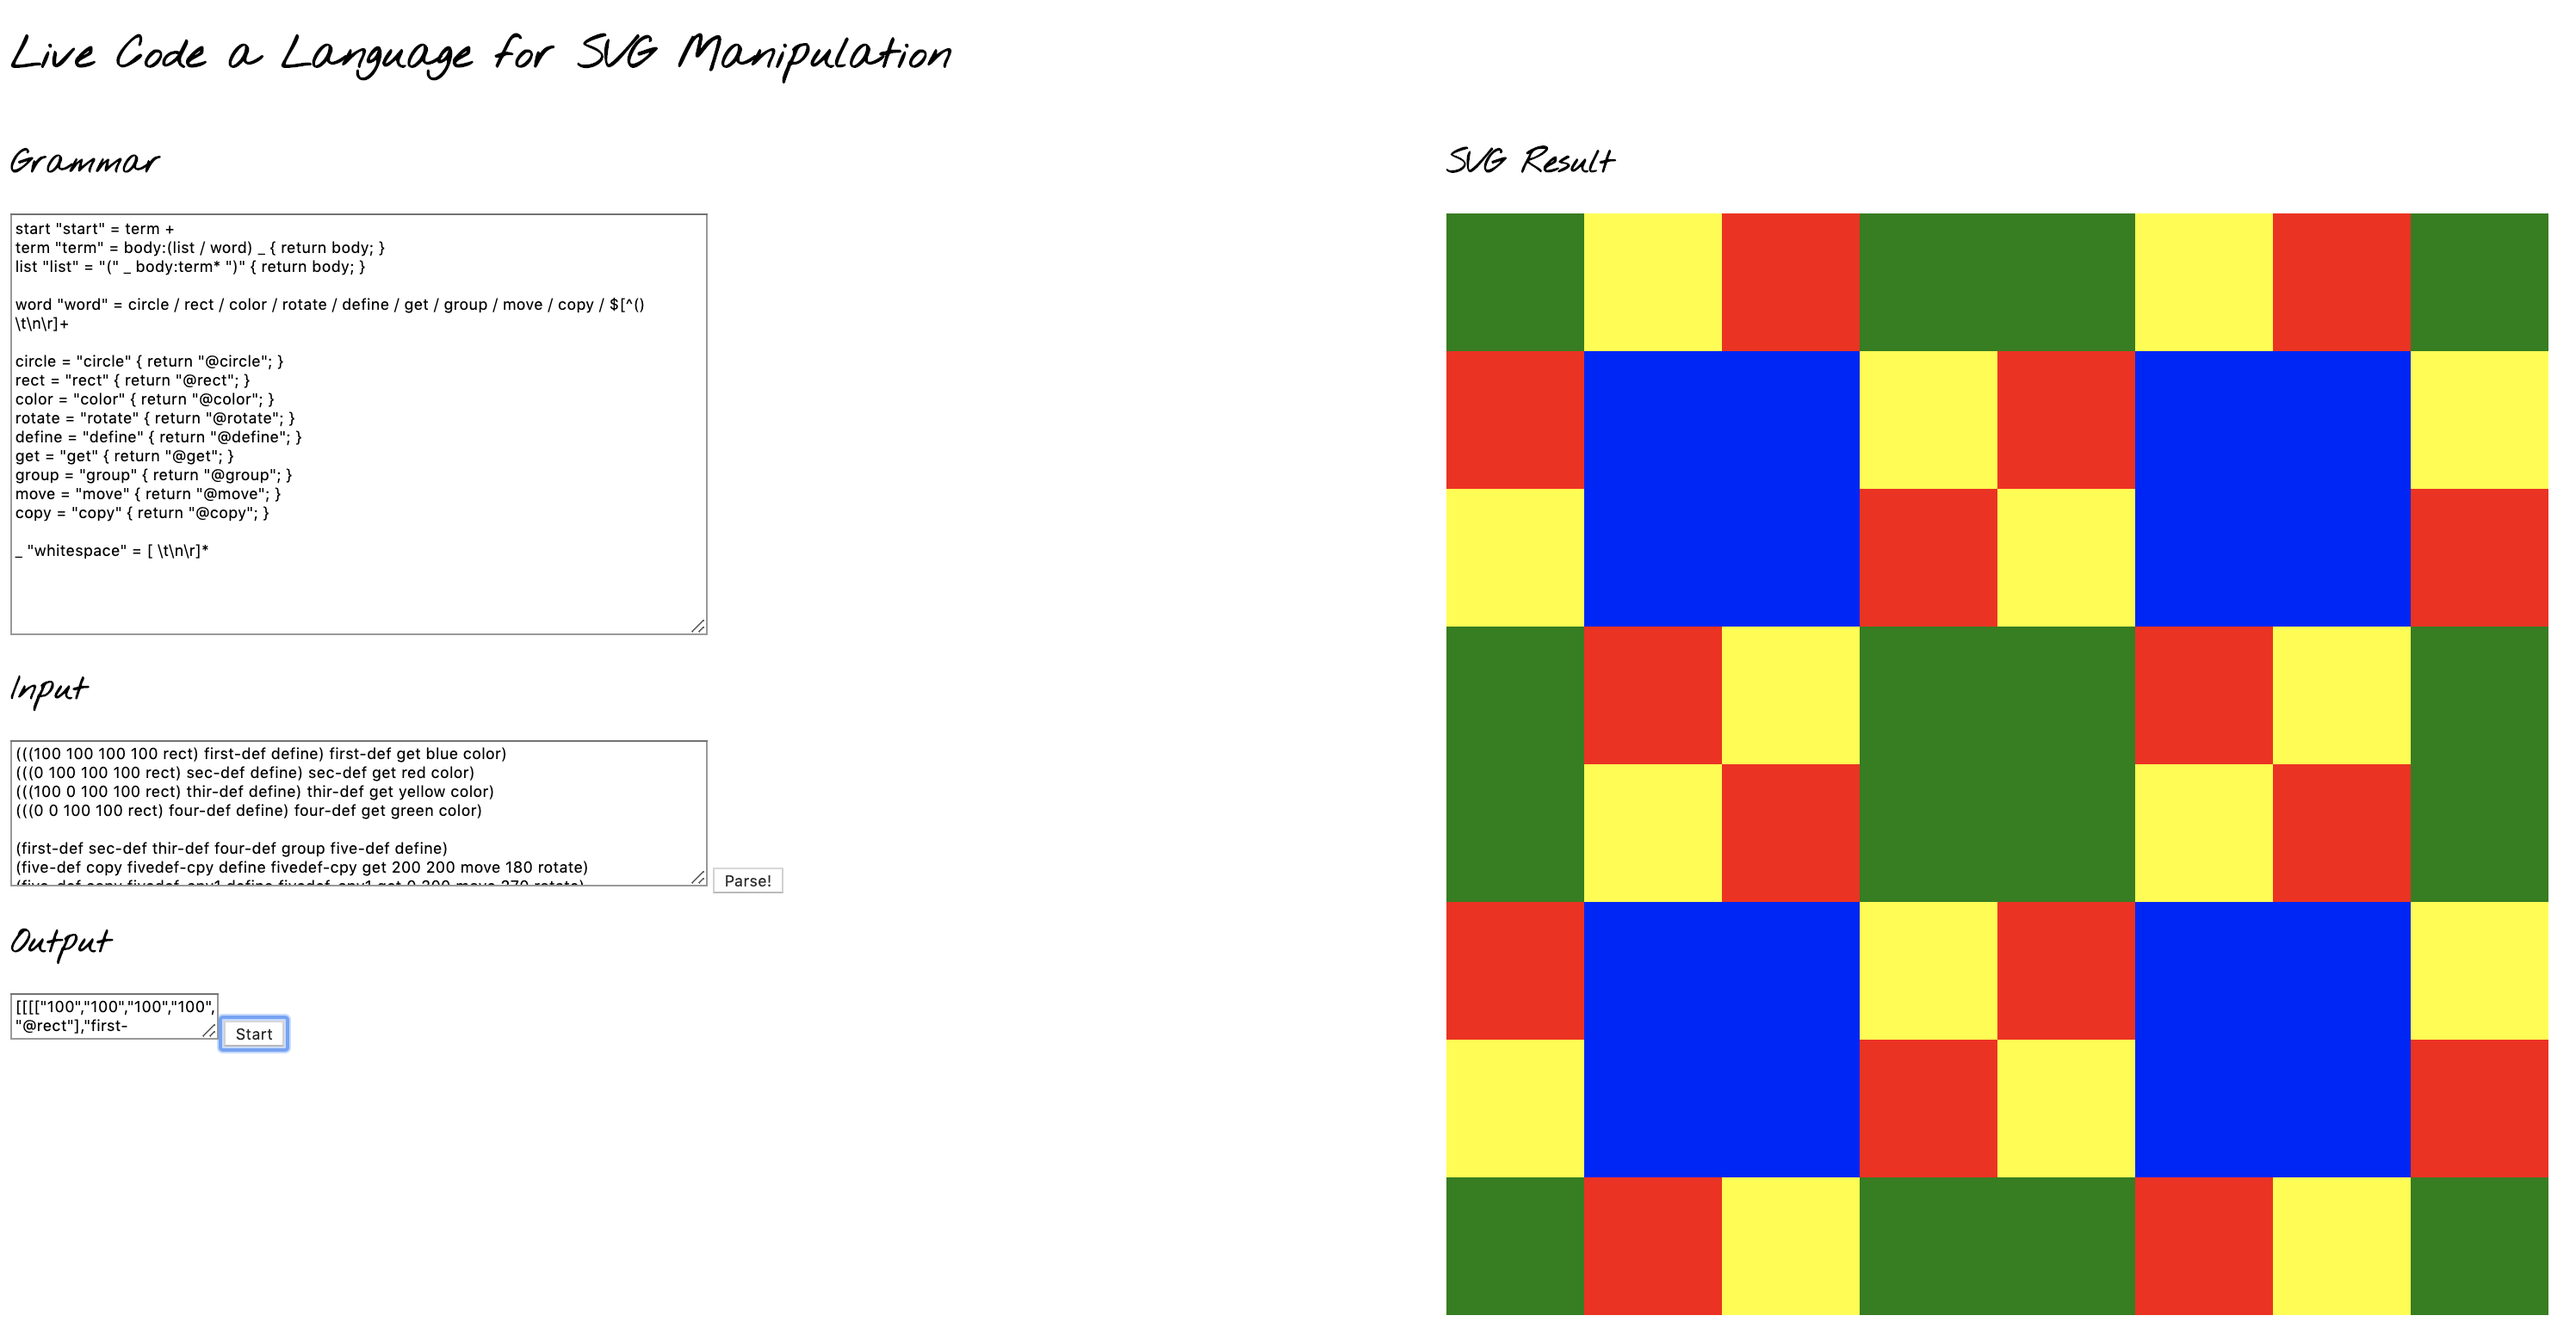
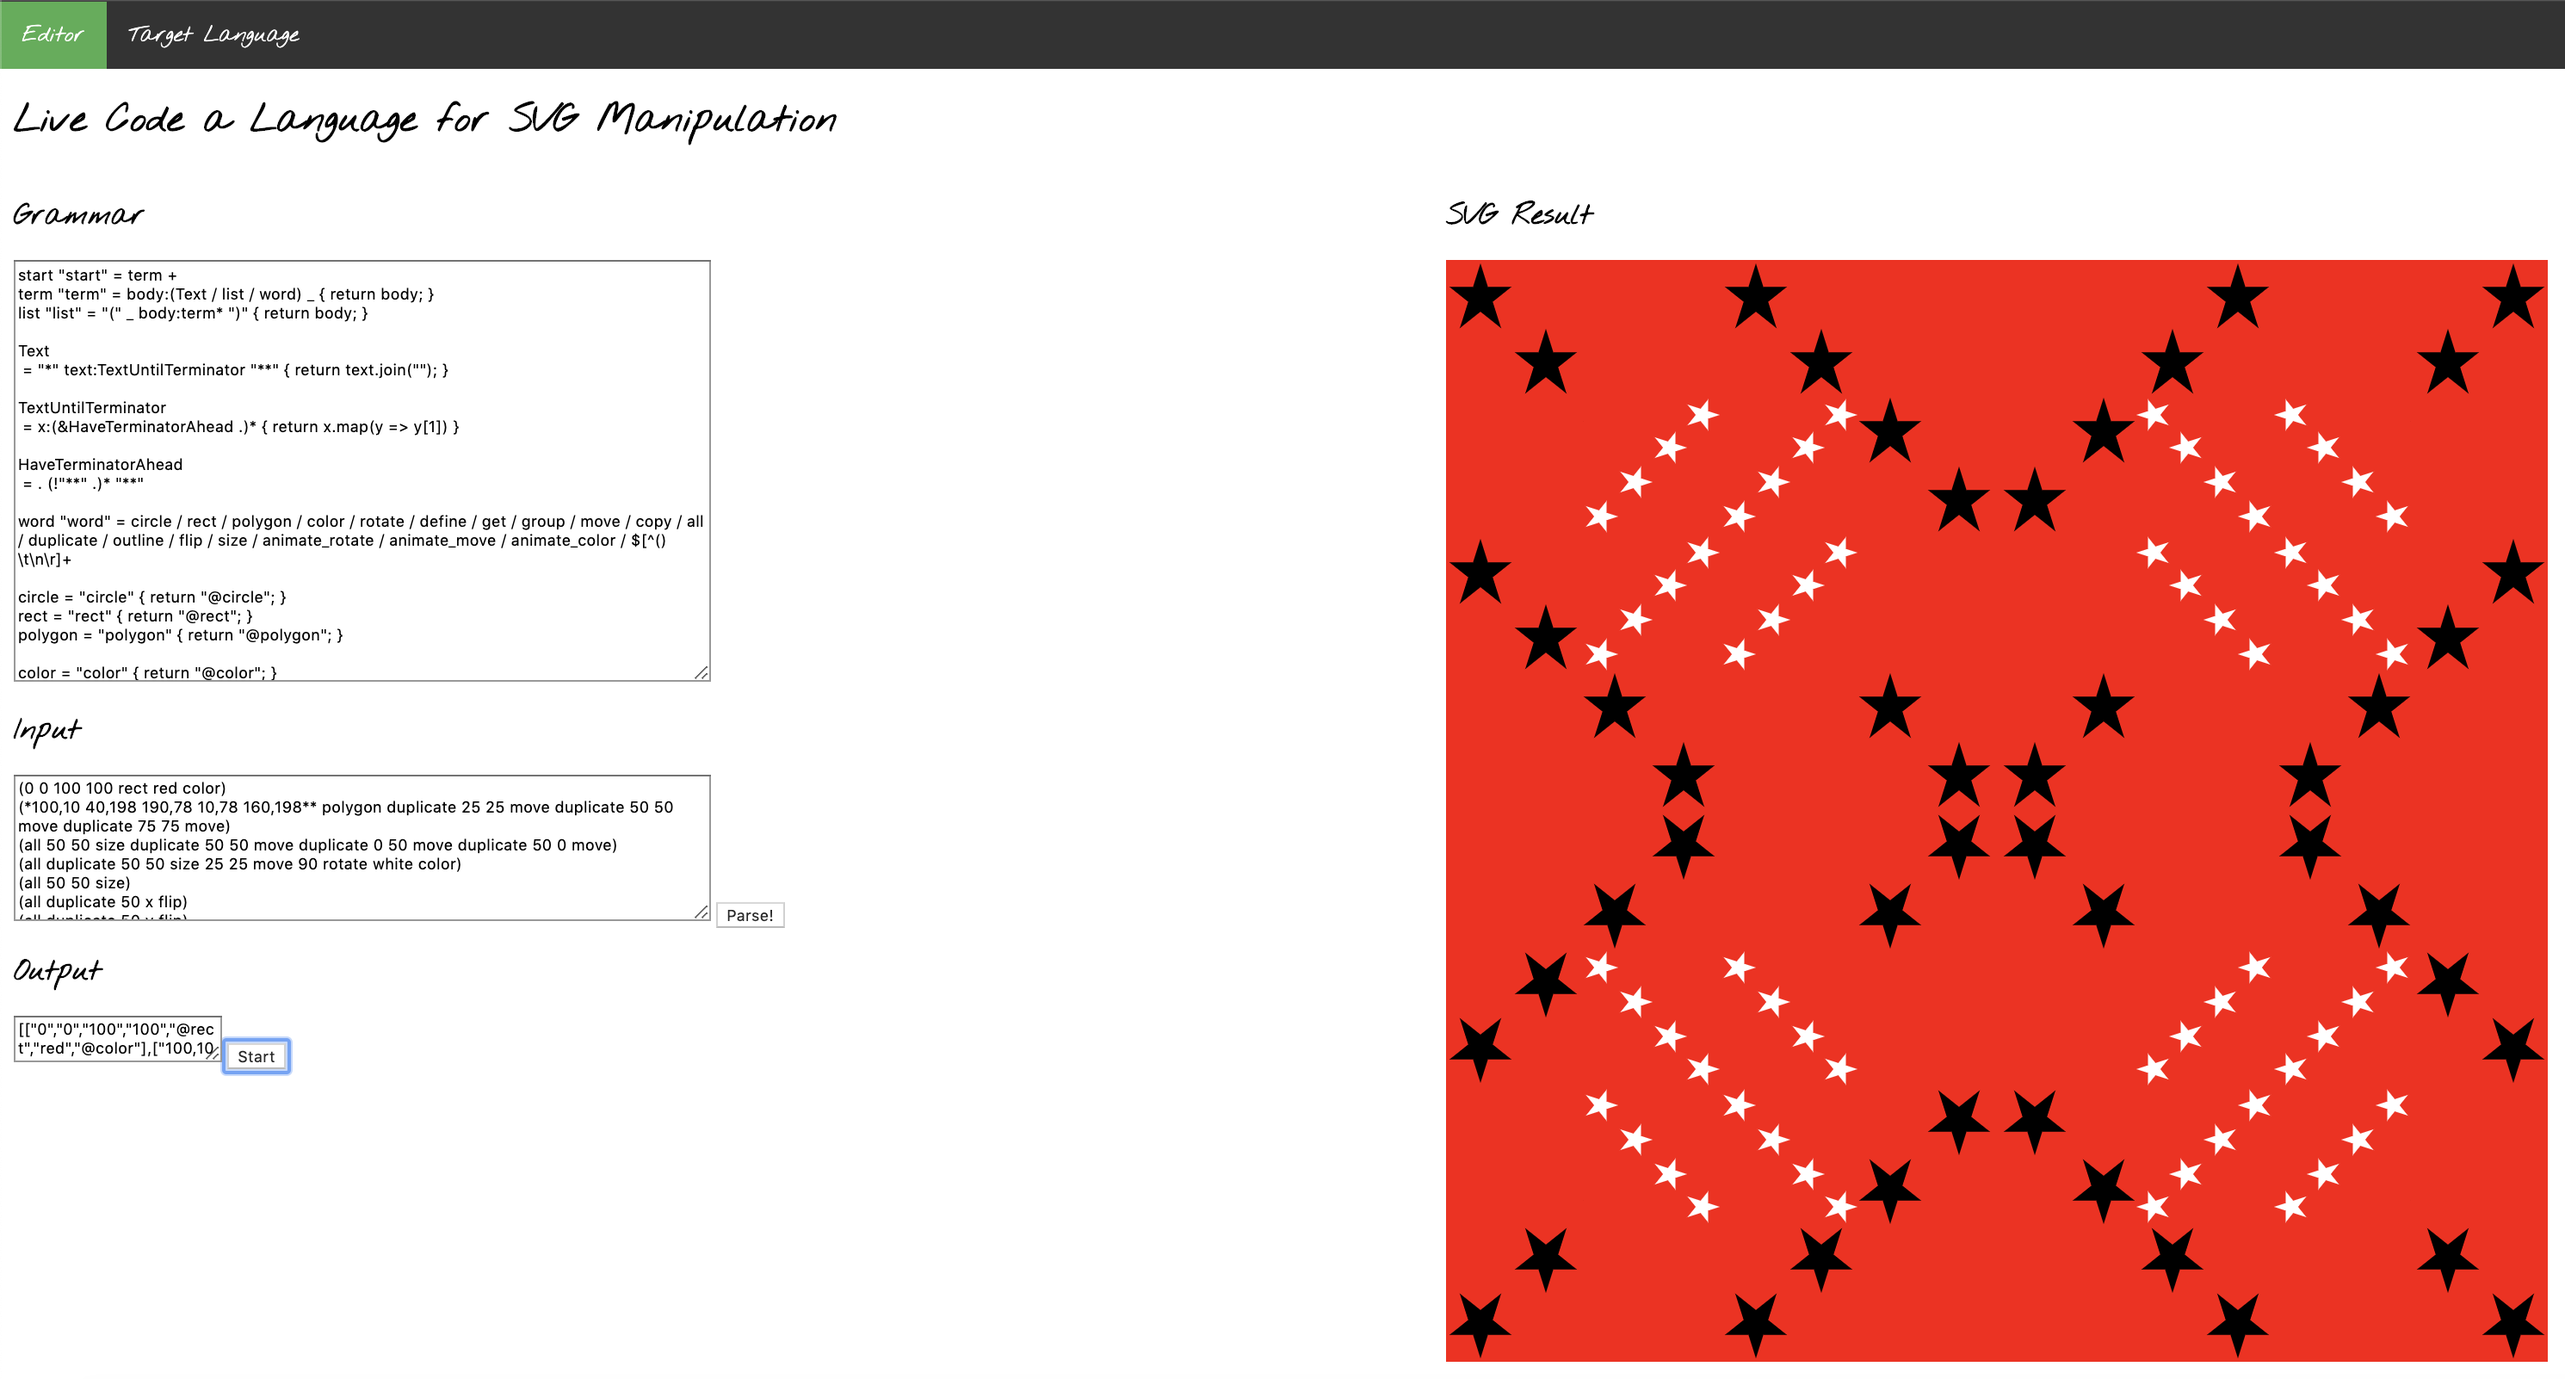
More commands!

diff --git a/svg/svgdotjs.html b/svg/svgdotjs.html
@@ -13,7 +13,9 @@
 <script>
     /* create an svg drawing */
     var draw = SVG().addTo('#drawing').size(800, 800);
+    //draw = drawing.group();
 
+    //var draw = drawing.group();
     /* draw rectangle */
     var recta = draw.rect(100, 100).move(100, 100).fill('red');
     var rectb = draw.rect(100, 100).move(0, 0).fill('green');
@@ -55,6 +57,43 @@
     bigclone.translate(400, 400);
     bigclone.rotate(180);
     draw.add(bigclone);
+
+    //draw.scale(0.5);
+
+    //draw.nested()
+    let new_draw = draw.group();
+    //
+    // var clonemy = draw.clone();
+    // clonemy.move(20, 20);
+    // drawing.add(clonemy)
+    //draw.translate(-10, -10)
+
+    // let new_draw = draw.group();
+    //
+    draw.each(function(i, children) {
+        if (this !== new_draw){
+            this.putIn(new_draw)
+        }
+    })
+
+    new_draw.size(100, 100);
+    new_draw.rotate(100)
+
+    // for (let c of draw.children()){
+    //     new_draw.add(c);
+    // }
+    // //new_draw.add(draw.children);
+    //
+    // draw.clear();
+    // draw.add(new_draw)
+    // draw.rect(100, 100).fill('yellow');
+
+    //let drawcopy = draw.clone();
+    //let drawcopy = draw.ungroup(null, 3)
+
+    //drawcopy.rotate(100);
+    //drawcopy.scale(0.5);
+    //draw.add(drawcopy);
 
 
     //rect.flip('x', {x: 20, y: 30})

diff --git a/docs/index.html b/docs/index.html
@@ -37,7 +37,7 @@ TextUntilTerminator
 HaveTerminatorAhead
  = . (!"**" .)* "**"
 
-word "word" = circle / rect / polygon / color / rotate / define / get / group / move / copy / duplicate / outline / flip / size / animate_rotate / animate_move / animate_color / $[^() \t\n\r]+
+word "word" = circle / rect / polygon / color / rotate / define / get / group / move / copy / all / duplicate / outline / flip / size / animate_rotate / animate_move / animate_color / $[^() \t\n\r]+
 
 circle = "circle" { return "@circle"; }
 rect = "rect" { return "@rect"; }
@@ -50,6 +50,7 @@ rotate = "rotate" { return "@rotate"; }
 move = "move" { return "@move"; }
 size = "size" { return "@size"; }
 
+all = "all" { return "@all"; }
 group = "group" { return "@group"; }
 copy = "copy" { return "@copy"; }
 duplicate = "duplicate" { return "@duplicate"; }

diff --git a/docs/vm.js b/docs/vm.js
@@ -298,6 +298,17 @@ Q.prototype.step = function () {
                     this.vars.push(clone);
                     break;
 
+                case "@all":
+                    let new_draw = draw.group();
+                    draw.each(function(i, children) {
+                        if (this !== new_draw){
+                            this.putIn(new_draw)
+                        }
+                    });
+
+                    this.vars.push(new_draw);
+                    break;
+
                 case "@duplicate":
                     let to_clone = this.vars.pop();
 

diff --git a/docs/style.css b/docs/style.css
@@ -1,11 +1,11 @@
 body{
     margin: 0;
     font-family: 'Raleway', sans-serif;
-    font-size: 14px;
 }
 
 .container{
     margin: 10px;
+    font-size: 14px;
 }
 
 ul {

diff --git a/docs/target_lang.md b/docs/target_lang.md
@@ -10,11 +10,6 @@
 
 ### @polygon
 
-Default Editor Grammar Example
-```
-(*0,0 100,50 50,100** polygon)
-```
-
 ## Transformations
 
 ### @color
@@ -44,14 +39,6 @@ Default Editor Grammar Example
 
 ### @duplicate
 
-Default Editor Grammar Example
-```
-(*0,0 100,50 50,100** polygon 
-duplicate 10 10 move 
-duplicate 20 20 move 
-duplicate 30 30 move)
-```
-
 ### @define
 
 ### @get
@@ -60,3 +47,26 @@ duplicate 30 30 move)
 
 
 
+
+### Grammar Input Examples
+
+```
+(*0,0 100,50 50,100** polygon)
+```
+
+```
+(*0,0 100,50 50,100** polygon 
+duplicate 10 10 move 
+duplicate 20 20 move 
+duplicate 30 30 move)
+```
+
+```
+(0 0 100 100 rect red color) 
+(*100,10 40,198 190,78 10,78 160,198** polygon duplicate 25 25 move duplicate 50 50 move duplicate 75 75 move)
+(all 50 50 size duplicate 50 50 move duplicate 0 50 move duplicate 50 0 move)
+(all duplicate 50 50 size 25 25 move 90 rotate white color)
+(all 50 50 size)
+(all duplicate 50 x flip)
+(all duplicate 50 y flip)
+```

diff --git a/diary.md b/diary.md
@@ -5,8 +5,10 @@ WPI ISP creating a virtual machine for live coding visuals (B-term 2019)
 
 - Swapped from Raphael back to SVG.js
 - Started working with transformations, rotations, etc
-- Added 'group', 'copy', 'def', and 'get' methods
+- Added 'group', 'copy', 'def', and 'get' commands
 - Also adding sizing and basic animations
+- Added the 'all' command for selecting everything in the svg and making it a group
+- Added the 'duplication' command for inline element duplication
 - Using percentages instead of pixels now for sizing
 - Found cool svg pattern project
     - http://btmills.github.io/geopattern/geopattern.html
